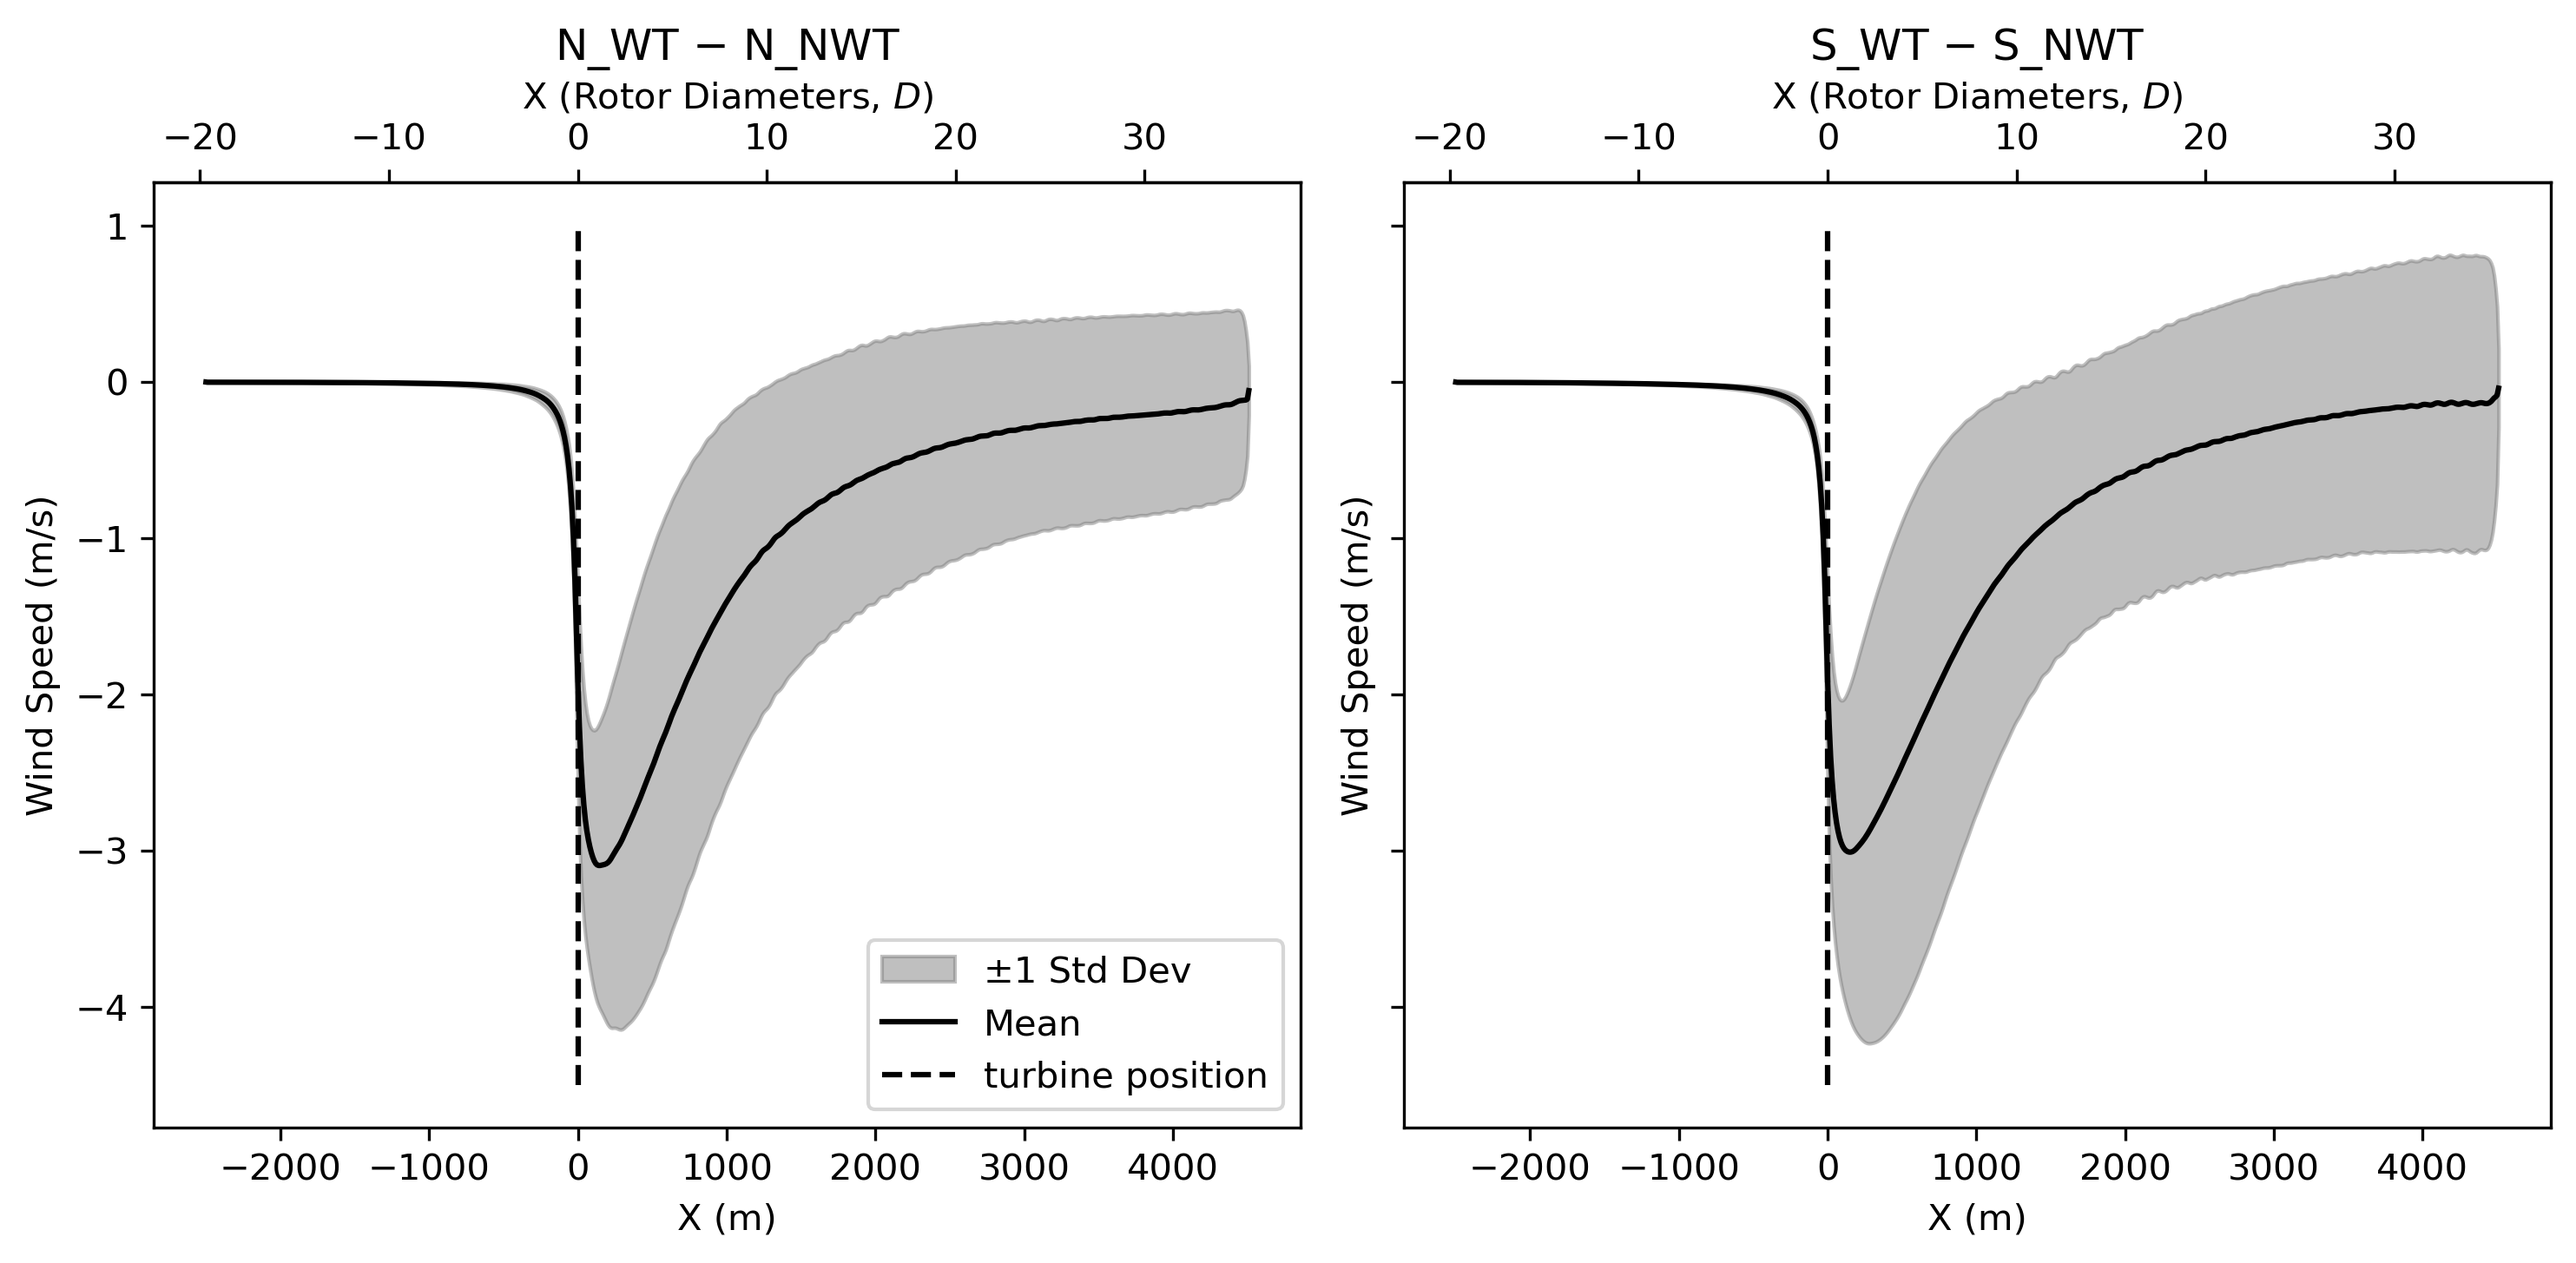
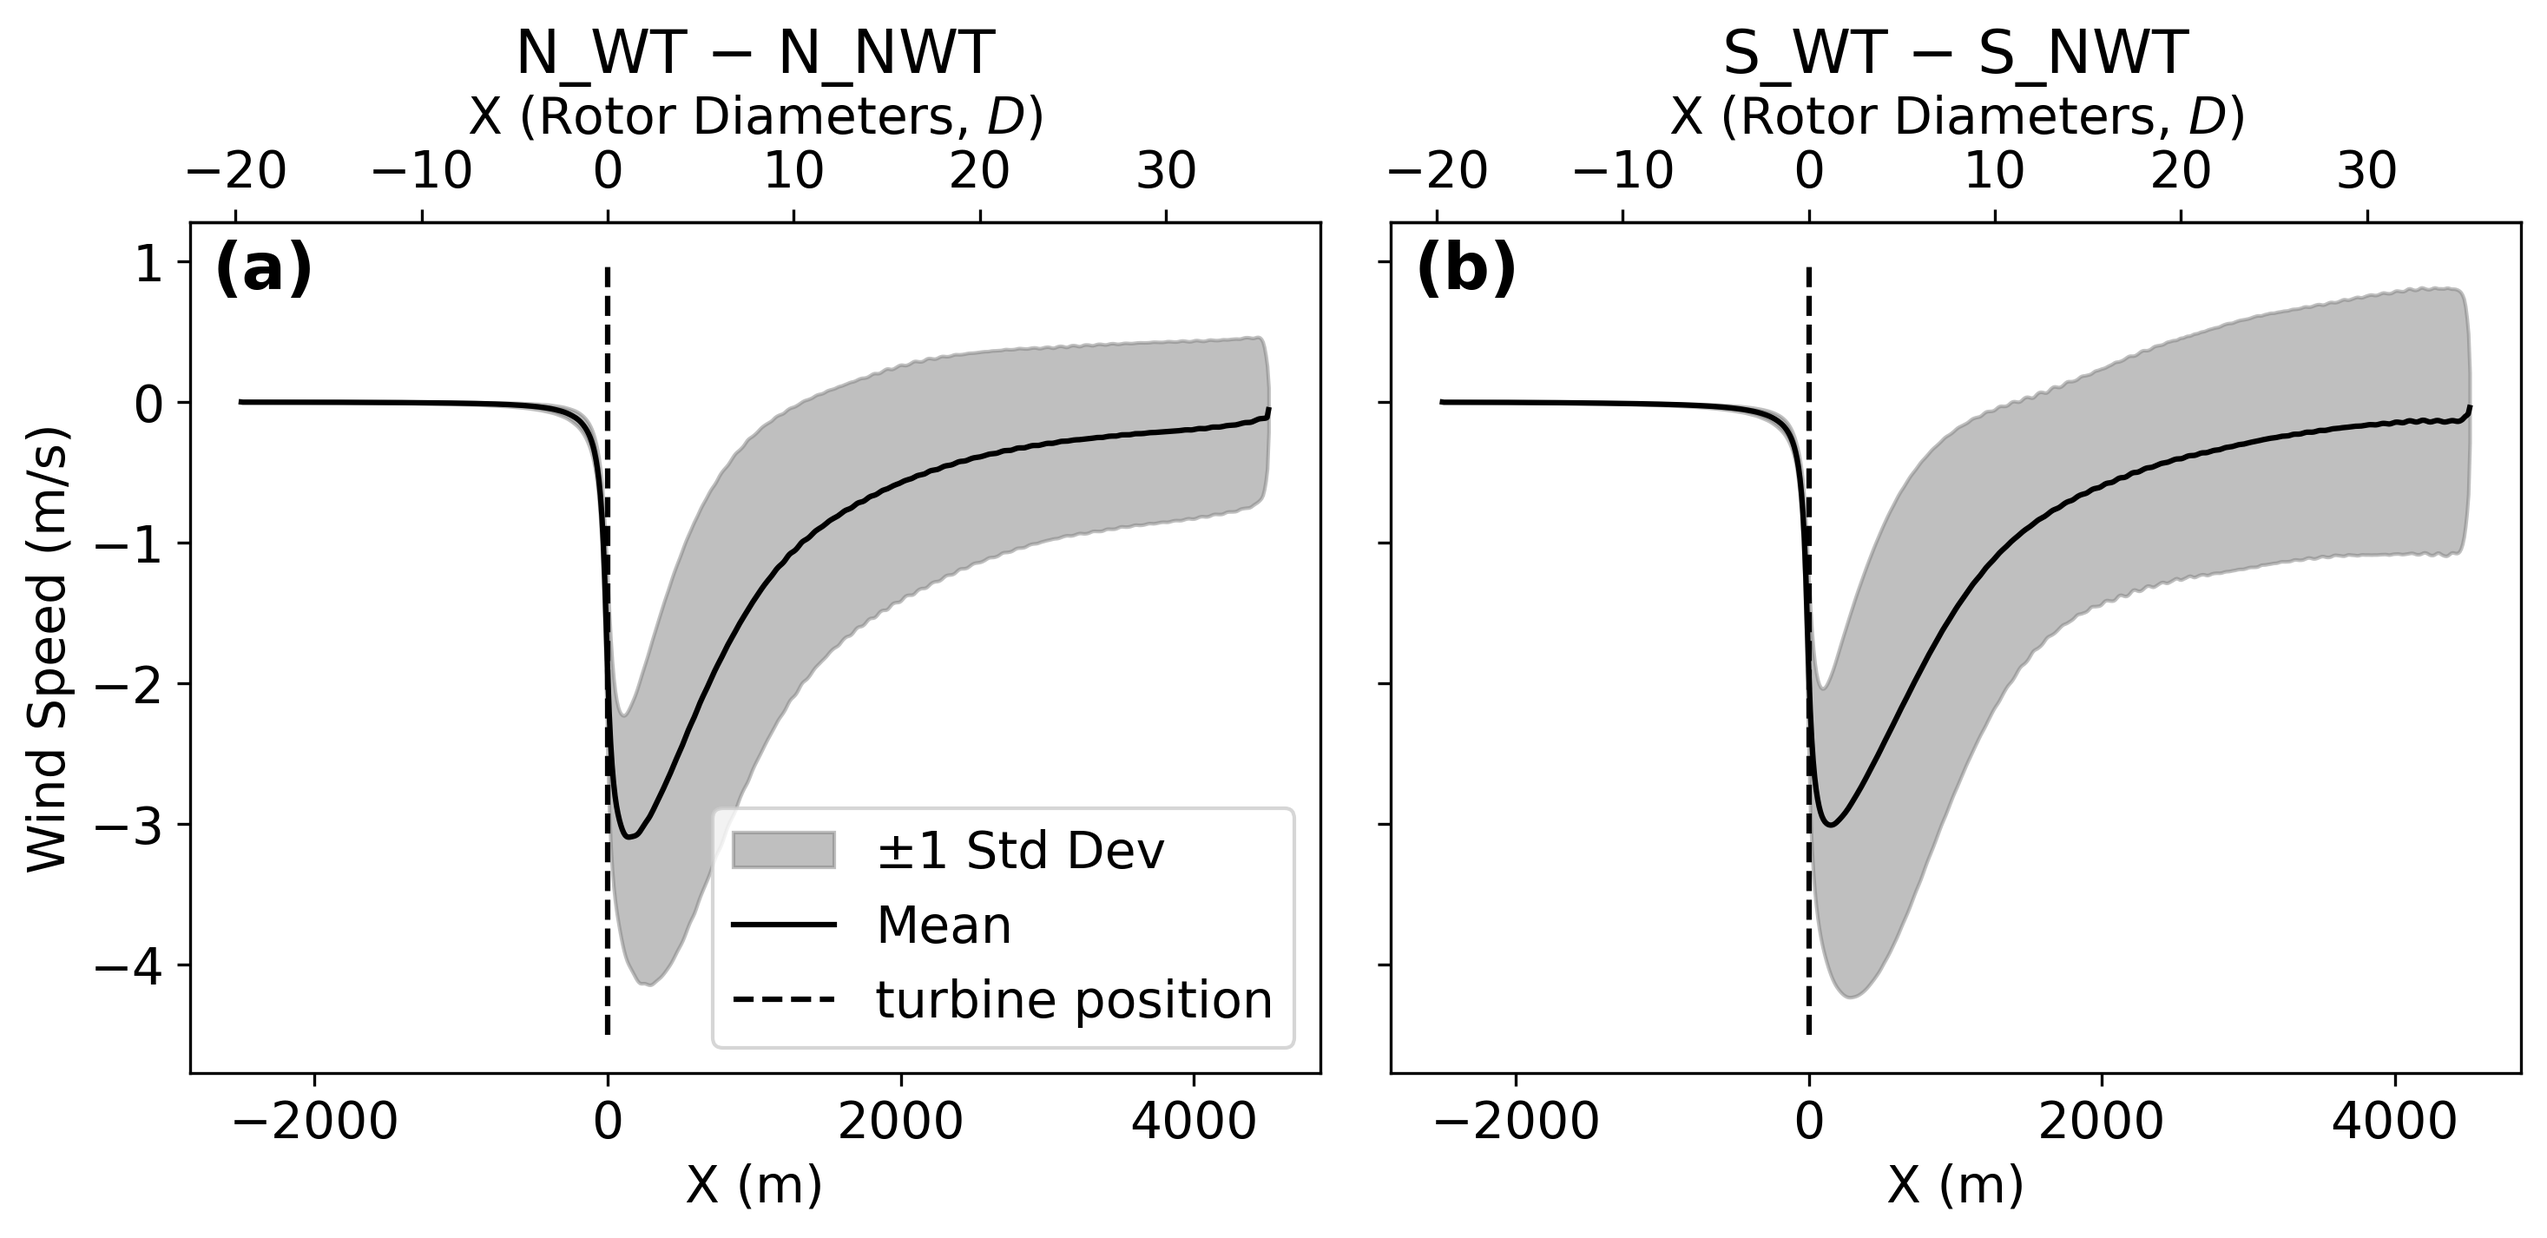
fontsize/annotate axial

diff --git a/both_axial_wind_speed.py b/both_axial_wind_speed.py
@@ -2,6 +2,9 @@ import pandas as pd
 import numpy as np
 import matplotlib.pyplot as plt
 
+plt.rcParams['font.size'] = 14
+panel_labels = ['a', 'b']
+
 neutral = pd.read_csv('axial_wind_speed_neutral.csv', index_col=0, header=0)
 stable = pd.read_csv('axial_wind_speed_stable.csv', index_col=0, header=0)
 datasets = [neutral, stable]
@@ -46,7 +49,6 @@ for i in range(2):
               label='turbine position')
 
     ax.set_xlabel('X (m)')
-    ax.set_ylabel('Wind Speed (m/s)')
 
     ax.set_title(labels[i])
 
@@ -62,6 +64,15 @@ for i in range(2):
     print("Different from 0")
     print(ds.loc[ds['mean'] + ds['std'] / np.sqrt(258) > 0])
 
+    ax.text(
+        0.02, 0.98, f'({panel_labels[i]})',
+        transform=ax.transAxes,
+        fontsize=18,
+        fontweight='bold',
+        va='top',
+        ha='left'
+    )
+axes[0].set_ylabel('Wind Speed (m/s)')
 axes[0].legend(loc='lower right')
 
 plt.tight_layout()
